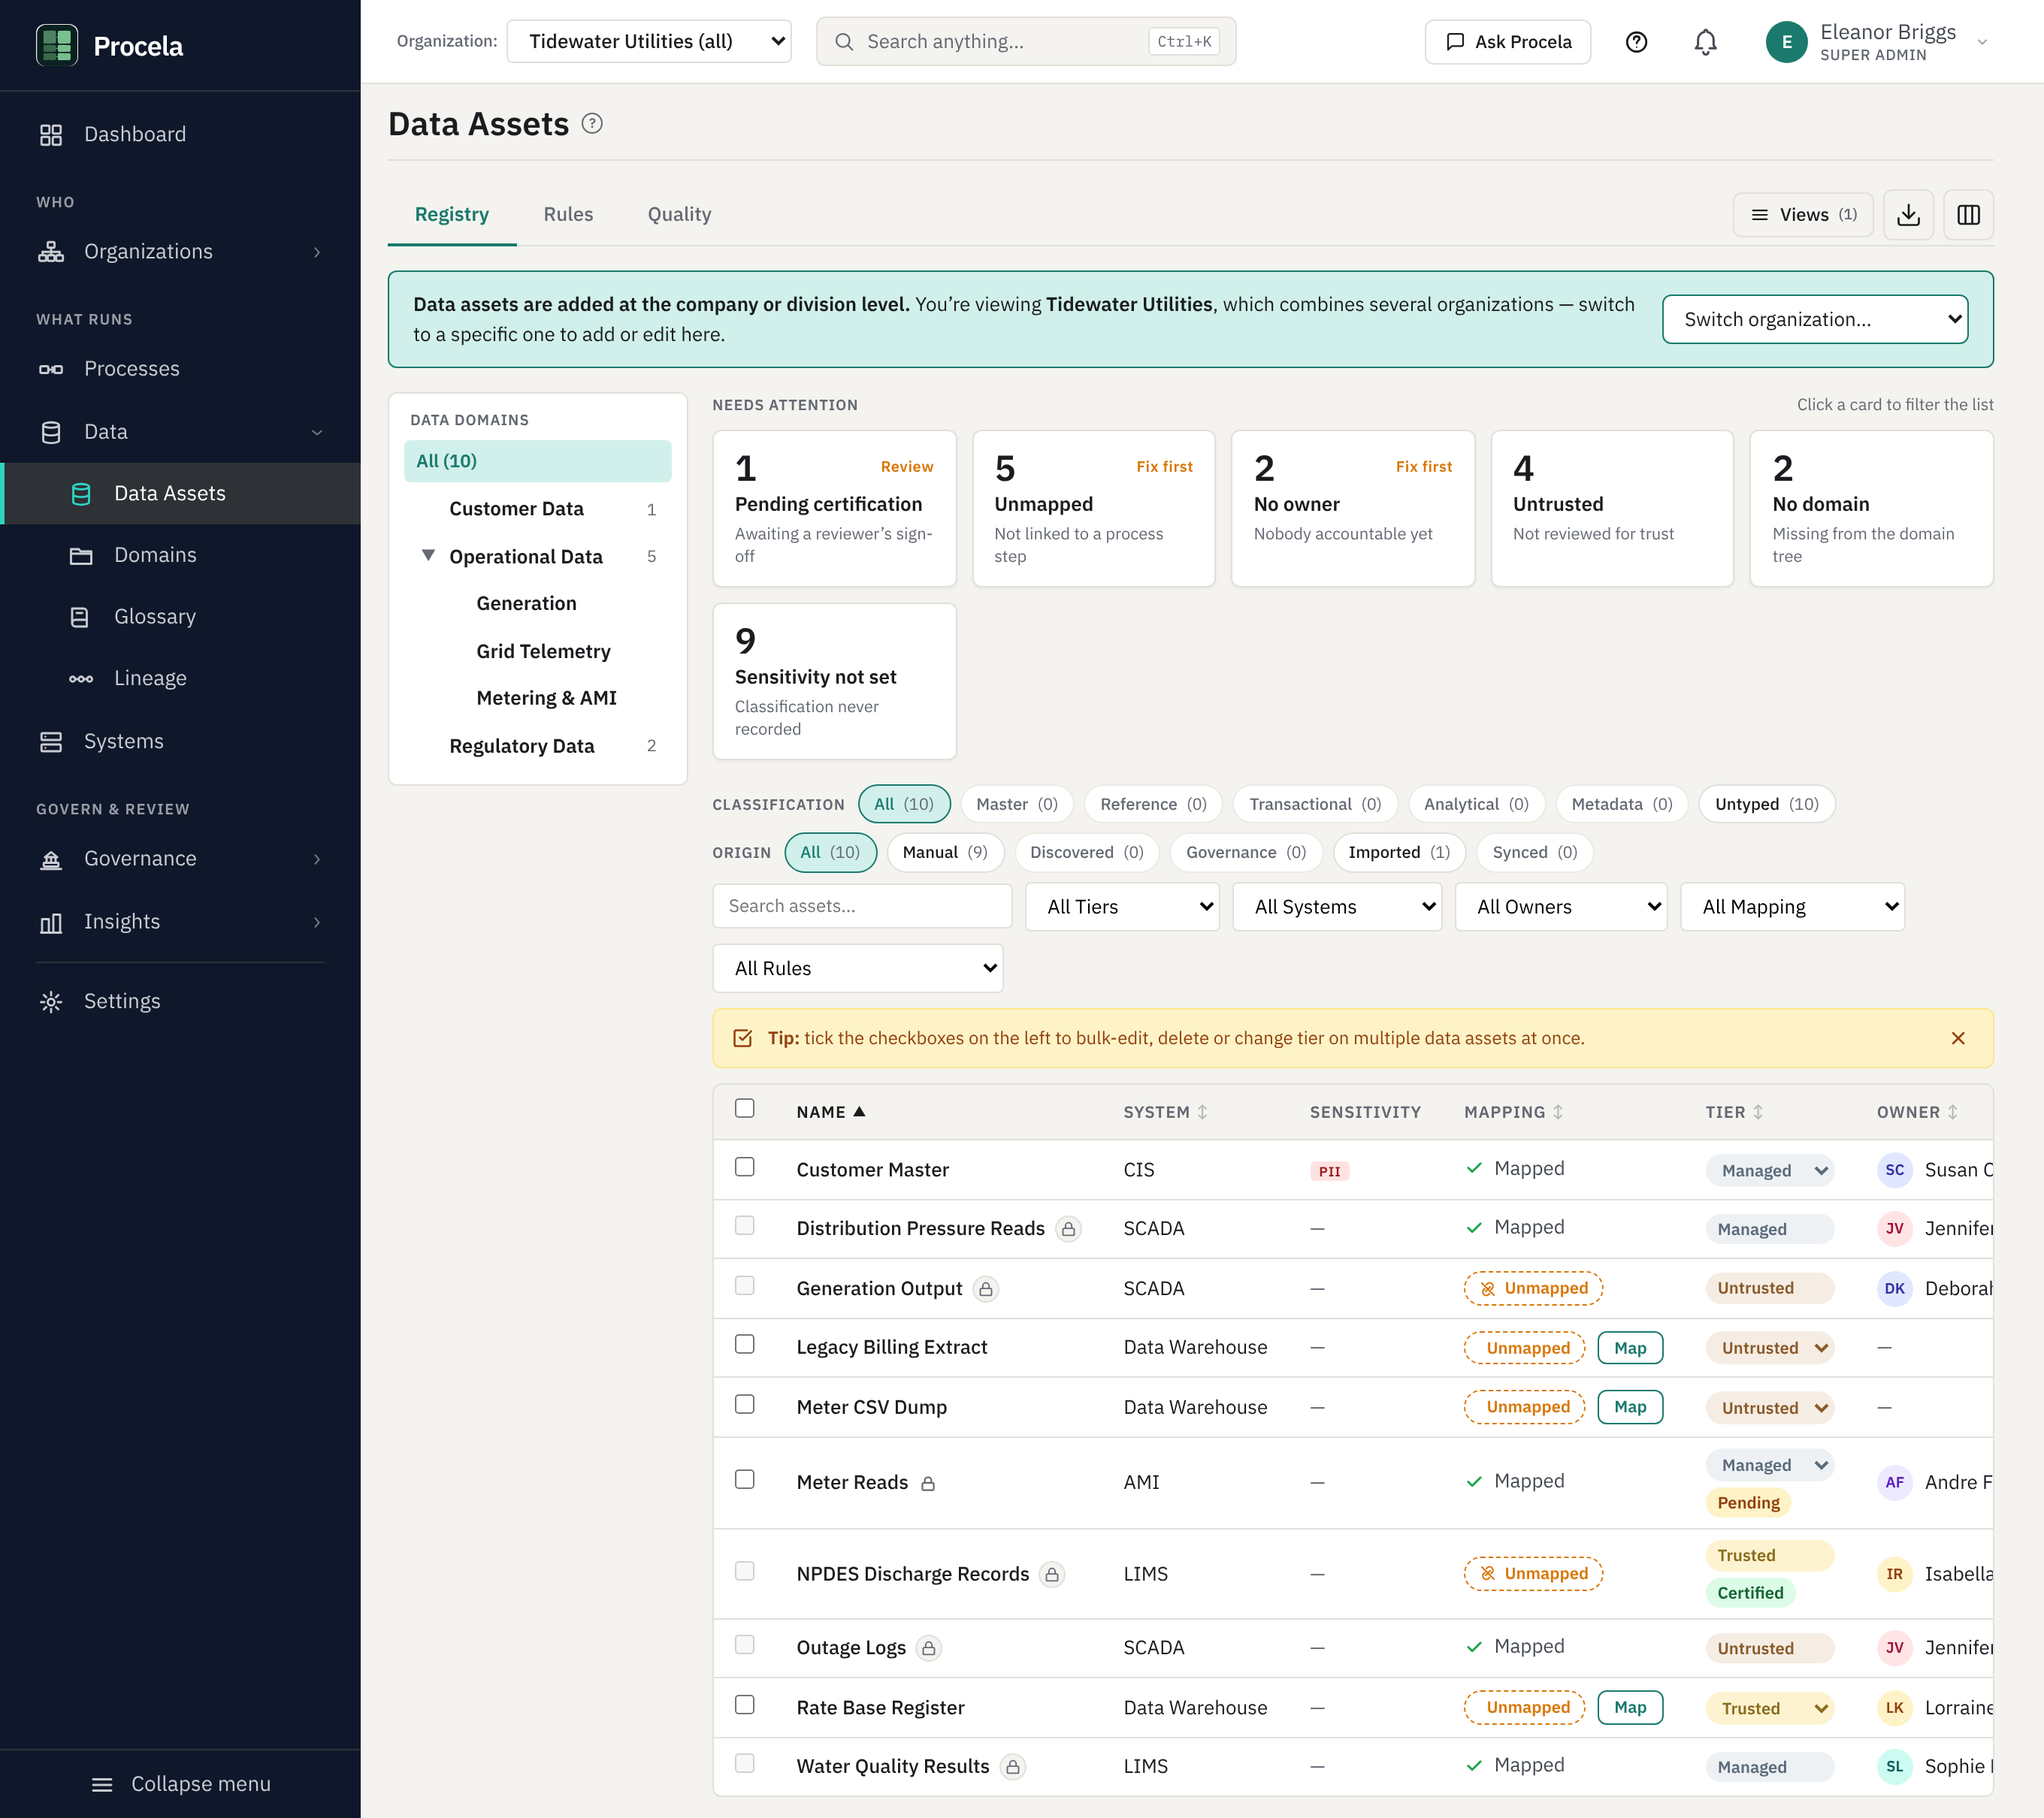
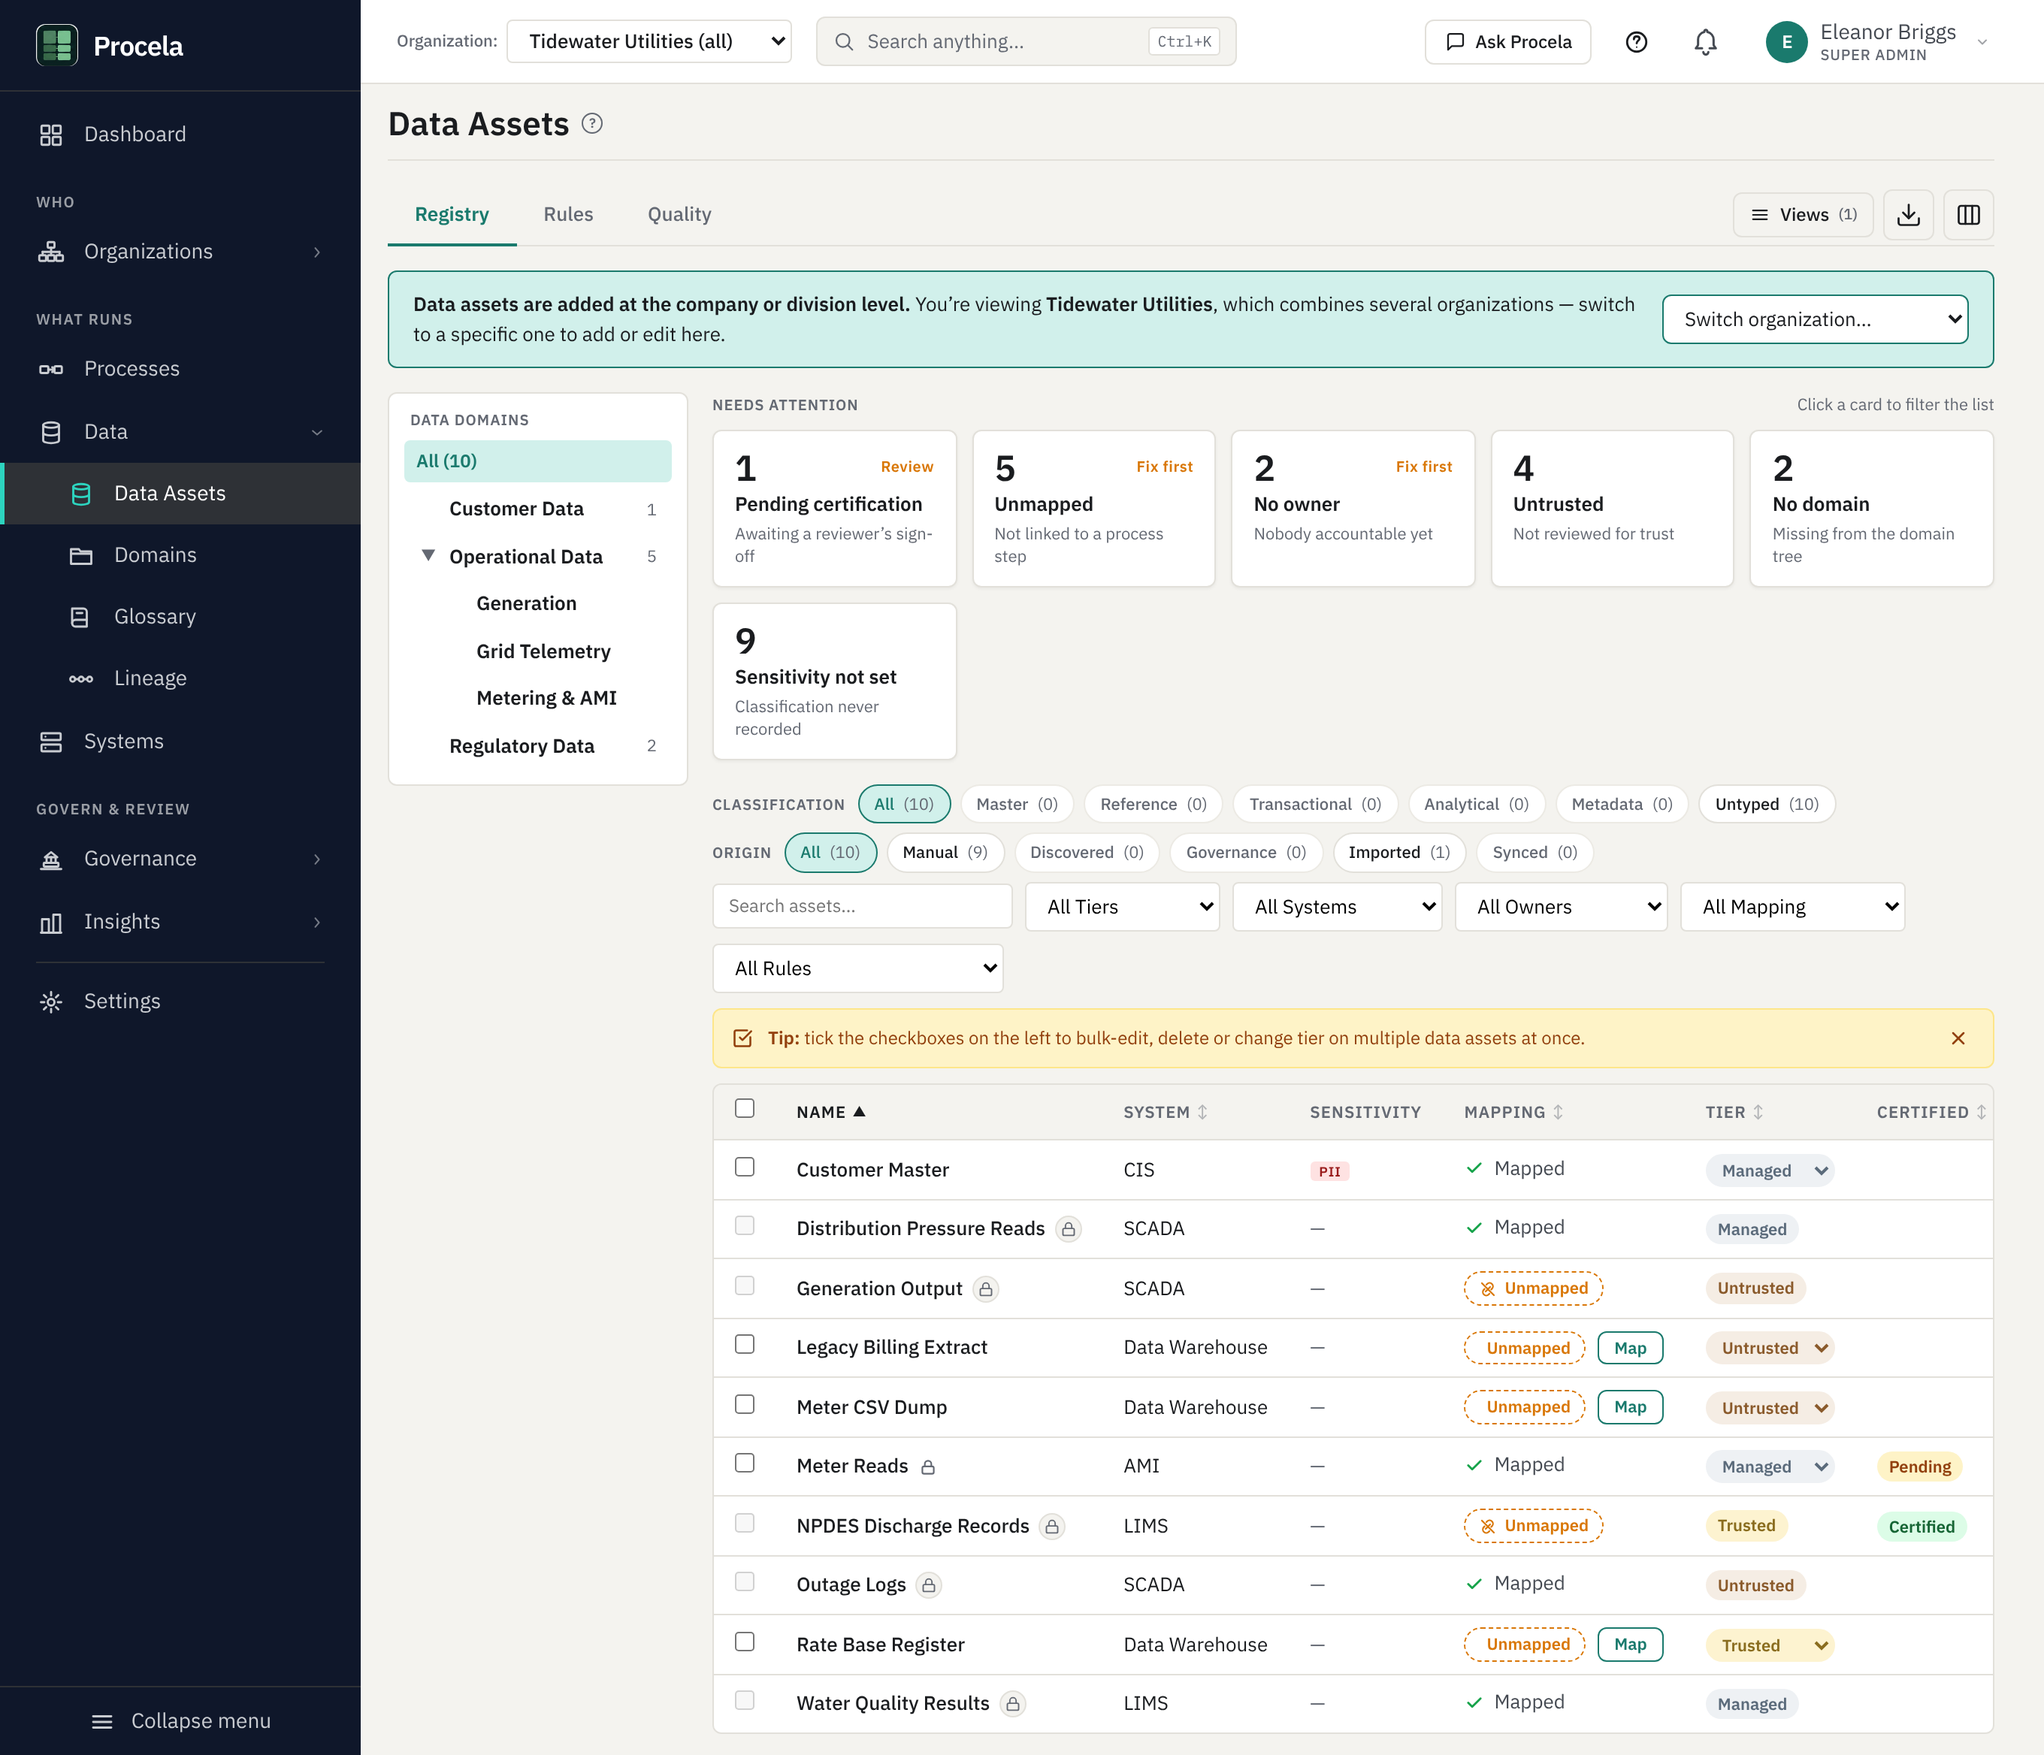
fix(data-assets): give certification its own column for uniform row heights (#998)
The Tier cell was a vertical flex stack (flexDirection: column) that
conditionally added a CertifiedBadge pill and a "Promote" button beneath
the tier badge. Rows with a certification state (Meter Reads = Pending,
NPDES = Certified) or a promote nudge grew to ~1.5–2× height, breaking
the single-line row rhythm every other list keeps (the global
`white-space: nowrap` + TruncatedText convention; the pill renders inline
on Mappings / Data Domains).

Option B — split the concern into its own column:

- Tier cell is now a single-line horizontal row: the tier pill plus, when
  earned, a compact "↑ Promote" nudge (was "↑ Promote to <tier>"). Nothing
  stacks under it.
- New **Certified** column (toggleable, visible by default, sortable
  Certified → Pending → none) renders one compact CertifiedBadge, blank for
  assets outside the workflow. An asset has both a tier and a separate
  certification state, so they get separate columns.

Every row is now one line tall regardless of certification/promote state,
matching the other entity lists. Help screenshot regenerated and the alt
text / capture note updated (pill moved from "below the tier" to the
Certified column).

Frontend tsc clean; 298 frontend tests pass; verified in the running app
(uniform rows; Certified column shows Pending/Certified pills).

Claude-Session: https://claude.ai/code/session_01BkiUZ8PqyvCGVYEtKwYmjG

diff --git a/packages/frontend/src/pages/DataAssetsPage.tsx b/packages/frontend/src/pages/DataAssetsPage.tsx
@@ -359,7 +359,7 @@ function RowCountChip({ rowCount }: { rowCount?: number | null }) {
 // 'description' is not a column here. It's kept off the list entirely to
 // keep rows single-line and dense; the full text lives in the 360 detail
 // modal and the edit form. (It's still searchable via the search box.)
-type ColumnId = 'system' | 'source' | 'sensitivity' | 'mapping' | 'tier' | 'health' | 'domain' | 'owner' | 'steward' | 'created';
+type ColumnId = 'system' | 'source' | 'sensitivity' | 'mapping' | 'tier' | 'certified' | 'health' | 'domain' | 'owner' | 'steward' | 'created';
 const COLUMN_DEFS: Array<{ id: ColumnId; label: string; defaultVisible: boolean }> = [
   { id: 'system',      label: 'System',      defaultVisible: true  },
   { id: 'source',      label: 'Source',      defaultVisible: false },
@@ -370,6 +370,10 @@ const COLUMN_DEFS: Array<{ id: ColumnId; label: string; defaultVisible: boolean 
   // a filter dropdown). Carries the inline "Map" affordance on orphan rows.
   { id: 'mapping',     label: 'Mapping',     defaultVisible: true  },
   { id: 'tier',        label: 'Tier',        defaultVisible: true  },
+  // Certification is its own column (not a pill stacked under the tier) so
+  // every row stays single-line — an asset has both a tier and a separate
+  // certification state. Blank for assets outside the workflow.
+  { id: 'certified',   label: 'Certified',   defaultVisible: true  },
   // Health is off by default here — it's the Quality tab's focus (with the
   // rule breakdown). Registry leads with catalog/governance attributes
   // (Tier, Domain, Owner); health stays one click away in the column picker.
@@ -1011,6 +1015,11 @@ export default function DataAssetsPage({
       // Unmapped (orphan) rows sort first — they're the ones needing action.
       mapping: (a, b) => (a.isOrphan ? 0 : 1) - (b.isOrphan ? 0 : 1),
       tier: (a, b) => compareTier(a.governanceTier, b.governanceTier),
+      // Certified first, then pending, then the uncertified rest.
+      certified: (a, b) => {
+        const rank = (s?: string) => (s === 'CERTIFIED' ? 2 : s === 'PENDING_REVIEW' ? 1 : 0);
+        return rank(a.certificationStatus) - rank(b.certificationStatus);
+      },
       health: (a, b) => (a.healthScore ?? 0) - (b.healthScore ?? 0),
       domain: (a, b) => (a.domainName || '').localeCompare(b.domainName || ''),
       owner: (a, b) => (a.ownerName || '').localeCompare(b.ownerName || ''),
@@ -1697,8 +1706,11 @@ export default function DataAssetsPage({
       key: 'tier', header: 'Tier', sortable: true,
       render: (asset: DataAssetEntity) => {
         const inherited = isInheritedAsset(asset.orgId, activeOrgId);
+        // Single-line, horizontal: the tier pill + (when earned) a compact
+        // Promote nudge. The certification state lives in its own column, so
+        // nothing stacks under the tier and every row stays one line tall.
         return (
-          <div style={{ display: 'flex', flexDirection: 'column', gap: 4 }}>
+          <div style={{ display: 'flex', alignItems: 'center', gap: 6, whiteSpace: 'nowrap' }}>
             {canWrite && !inherited ? (
               // Editable tier: a native <select> styled to read as the same
               // coloured tier pill as the read-only TierBadge, so the column
@@ -1711,7 +1723,7 @@ export default function DataAssetsPage({
                     aria-label="Governance tier"
                     value={asset.governanceTier || 'BRONZE'}
                     onChange={(e) => inlineSaveField(asset.id, 'governanceTier', e.target.value)}
-                    style={{ fontSize: 11, fontWeight: 600, padding: '2px 6px', borderRadius: 999, background: tc.bg, color: tc.color, border: `1px solid ${tc.bg}`, cursor: 'pointer', alignSelf: 'flex-start' }}
+                    style={{ fontSize: 11, fontWeight: 600, padding: '2px 6px', borderRadius: 999, background: tc.bg, color: tc.color, border: `1px solid ${tc.bg}`, cursor: 'pointer' }}
                   >
                     {TIER_VALUES.map((t) => <option key={t} value={t}>{tierLabel(t)}</option>)}
                   </select>
@@ -1720,23 +1732,27 @@ export default function DataAssetsPage({
             ) : (
               <TierBadge tier={asset.governanceTier} />
             )}
-            {(asset.certificationStatus === 'CERTIFIED' || asset.certificationStatus === 'PENDING_REVIEW') && (
-              <span style={{ alignSelf: 'flex-start' }}>
-                <CertifiedBadge compact status={asset.certificationStatus} certifiedUntil={asset.certifiedUntil} />
-              </span>
-            )}
             {canWrite && !inherited && asset.suggestedTier && compareTier(asset.suggestedTier, asset.governanceTier) > 0 && (
               <button
                 onClick={() => inlineSaveField(asset.id, 'governanceTier', asset.suggestedTier!)}
                 title={`This asset meets the criteria for ${tierLabel(asset.suggestedTier)}. Click to promote.`}
-                style={{ fontSize: 10, fontWeight: 500, padding: '2px 8px', borderRadius: 999, background: '#dcfce7', color: '#166534', border: '1px solid #86efac', cursor: 'pointer', alignSelf: 'flex-start' }}
+                style={{ fontSize: 10, fontWeight: 500, padding: '2px 8px', borderRadius: 999, background: '#dcfce7', color: '#166534', border: '1px solid #86efac', cursor: 'pointer', whiteSpace: 'nowrap' }}
               >
-                {'↑'} Promote to {tierLabel(asset.suggestedTier)}
+                {'↑'} Promote
               </button>
             )}
           </div>
         );
       },
+    },
+    isVisible('certified') && {
+      key: 'certified', header: 'Certified', sortable: true,
+      render: (asset: DataAssetEntity) => (
+        // Own column — one compact pill, one line (the header supplies the
+        // context, so "Pending" / "Recert due" / "Certified" read fine).
+        // Renders nothing for assets outside the workflow, so rows stay uniform.
+        <CertifiedBadge compact status={asset.certificationStatus} certifiedUntil={asset.certifiedUntil} />
+      ),
     },
     isVisible('health') && {
       key: 'health', header: 'Health', sortable: true,

diff --git a/packages/backend/src/docs/images/README.md b/packages/backend/src/docs/images/README.md
@@ -12,7 +12,7 @@ If a file referenced by the markdown is missing, the guide renders a striped pla
 |---|---|---|
 | `dashboard-hero.png` | 3. Dashboard | Dashboard page, top crop. Sign in as **Susan Chen** on the Tidewater Utilities fixture so the personal sections populate. Show the greeting header (role · org · date), the **Program health** pulse strip (Open gaps / Classified / Ownership coverage / Program maturity), and the **Needs you** action queue (All / Tasks / Issues tabs + weekly-trend sparkline) beside the portfolio rail (next meeting, Portfolio Health). The dashboard is you-scoped; there is no Overview KPI row. |
 | `process-catalog-tree.png` | 4. Processes → Process Catalog | Process Catalog in its two-pane master-detail layout: the navigation tree (filter pills, per-row status dot + required-fields completeness) on the left with a node selected, and that node's record open in the detail pane on the right. |
-| `data-assets-list.png` | 5. Data → Data Assets | Data Assets list with several rows. Governance-tier badges should be visible in the Tier column, with a **certification pill below the tier on at least one row** — a green "Certified" and an amber "Pending" (the Tidewater fixture has both: NPDES Discharge Records = Certified, Meter Reads = Pending). The **"Pending certification" attention card** should be in the Needs-attention row. A green "Live" / "Synced N min ago" connector-freshness chip next to a name is a bonus when a sync source is paired. |
+| `data-assets-list.png` | 5. Data → Data Assets | Data Assets list with several rows. Governance-tier badges should be visible in the Tier column, with a separate **Certified column** carrying a pill on at least one row — a green "Certified" and an amber "Pending" (the Tidewater fixture has both: NPDES Discharge Records = Certified, Meter Reads = Pending). The **"Pending certification" attention card** should be in the Needs-attention row. A green "Live" / "Synced N min ago" connector-freshness chip next to a name is a bonus when a sync source is paired. |
 | `connectors-panel.png` | 6. Systems → On-prem connectors | Settings → On-prem connectors panel with at least one paired connector row. Status chip green (Online), systems column populated, "Add connector" button visible in the header. Empty-state also OK — it just tells a different story. |
 | `connector-pairing.png` | 6. Systems → On-prem connectors | The pairing-code modal after clicking "Add connector" and hitting Generate. The eight-digit code should dominate visually; the `docker run` hint underneath should be readable. |
 | `chat-panel.png` | 10. Cross-cutting → Ask AI assistant | AI assistant chat panel opened on the right. A grounded question ("Where are our data gaps?" is a good one) and an answer that includes at least one clickable entity citation and a green pill-shaped **Open** navigation chip at the end. |

diff --git a/packages/backend/src/docs/HELP.md b/packages/backend/src/docs/HELP.md
@@ -121,7 +121,7 @@ The single home for every activity ↔ target link in the catalog, at **Insights
 
 ### Data Assets
 
-![Data Assets registry: a Data Domains tree on the left, a "Needs attention" card row (Pending certification, Unmapped, No owner, Untrusted, No domain, Sensitivity not set), classification and origin filter pills, then the asset table with columns for System, Sensitivity, Mapping (Mapped / Unmapped), governance Tier (Managed / Untrusted / Trusted), and Owner. Assets in the certification workflow carry a pill below the tier — a green "Certified" (NPDES Discharge Records) or an amber "Pending" (Meter Reads) — distinct from the Gold tier; a manually-Gold-but-uncertified "Rate Base Register" shows the Trusted tier with no certification pill. Connector-sourced rows also show a green "Synced N min ago" freshness chip next to the name once a sync source is paired.](images/data-assets-list.png)
+![Data Assets registry: a Data Domains tree on the left, a "Needs attention" card row (Pending certification, Unmapped, No owner, Untrusted, No domain, Sensitivity not set), classification and origin filter pills, then the asset table with columns for System, Sensitivity, Mapping (Mapped / Unmapped), governance Tier (Managed / Untrusted / Trusted), a Certified column, and Owner. Assets in the certification workflow show a pill in the Certified column — a green "Certified" (NPDES Discharge Records) or an amber "Pending" (Meter Reads) — distinct from the Gold tier; a manually-Gold-but-uncertified "Rate Base Register" shows the Trusted tier with an empty Certified cell. Connector-sourced rows also show a green "Synced N min ago" freshness chip next to the name once a sync source is paired.](images/data-assets-list.png)
 
 - Register data assets in business terms. Each asset has a Trust Level (Untrusted / Managed / Trusted — DAMA mode calls these Uncertified / Managed / Certified).
 - Sidebar filter by **Data Classification** — the business *kind* of data: Master, Reference, Transactional, Analytical, Metadata (distinct from the SQL data type, and from the Sensitivity axis below).
